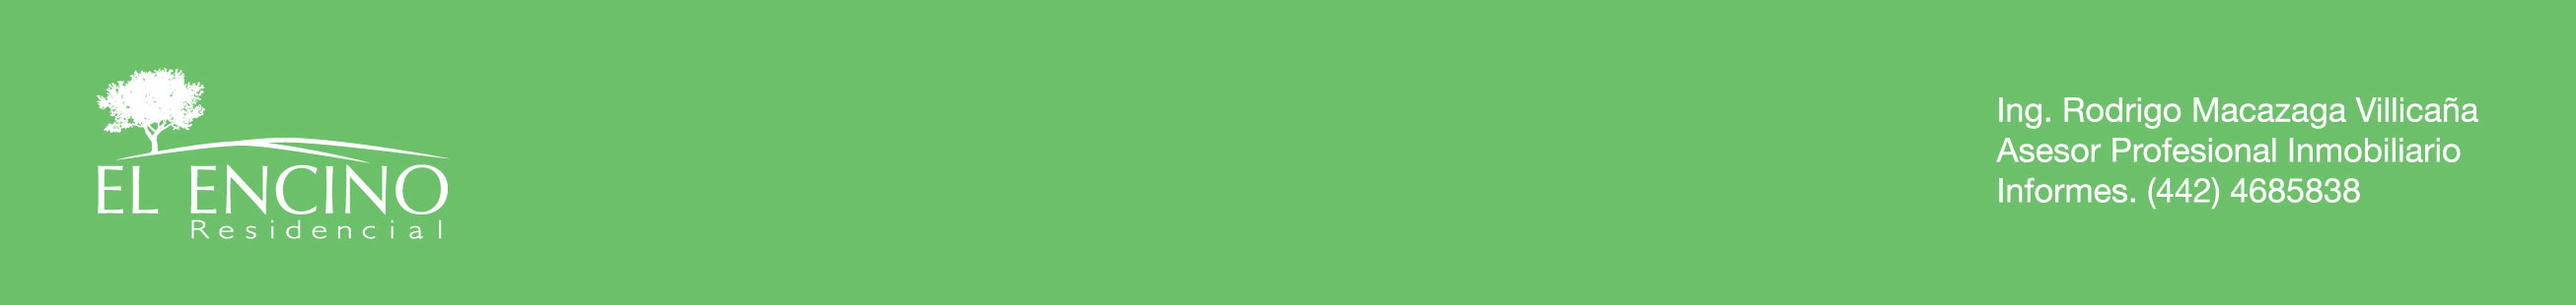
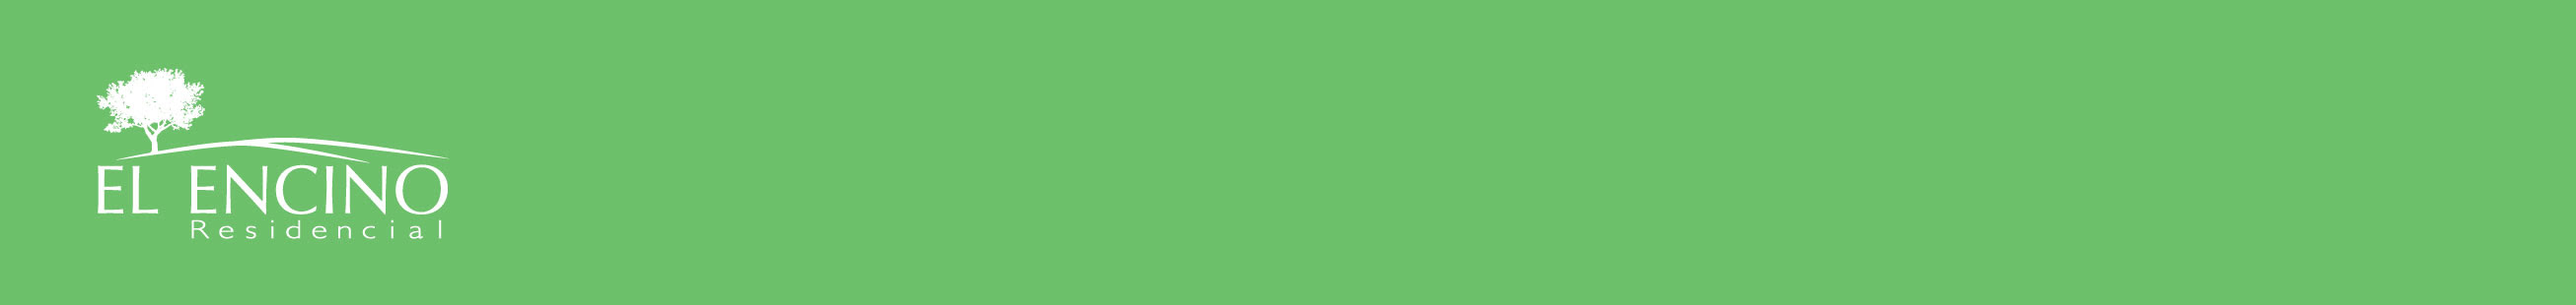
change footer and file name

Changed region(s): [[0.7753, 0.4645, 0.9613, 0.5516], [0.7753, 0.3194, 0.9613, 0.4065], [0.7753, 0.5806, 0.9303, 0.6677]]

diff --git a/app/controllers/homes_controller.rb b/app/controllers/homes_controller.rb
@@ -50,7 +50,7 @@ class HomesController < ApplicationController
      kit = PDFKit.new(html, :page_size => 'Letter')
      kit.stylesheets << "#{Rails.root.to_s}/app/assets/stylesheets/quote.css"
      pdf = kit.to_pdf
-     send_data pdf, :type => 'application/pdf', :filename => 'ElencinoQuotation.pdf'
+     send_data pdf, :type => 'application/pdf', :filename => "El Encino - [#{@lot.block.phase.name}] - M#{@lot.block.block_number}L#{@lot.lot_number}.pdf"
 
      # htm = render_to_string(:partial => 'homes/download_quote.html.haml')
      # respond_to do |format|
